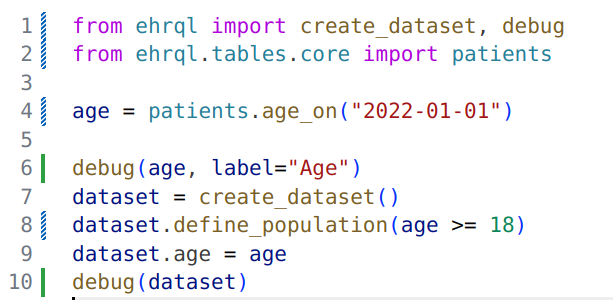
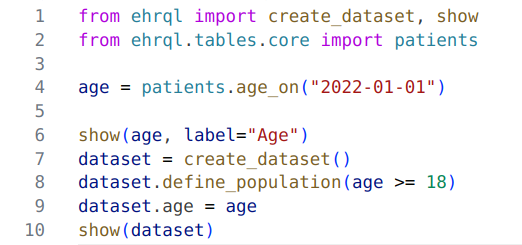
Update README and images

diff --git a/README.md b/README.md
@@ -4,7 +4,7 @@ NOTE: This extension is currently under development and is subject to change wit
 
 This is a VSCode extension for working with the [OpenSAFELY](www.opensafely.org) tools.
 
-Currently, it supports debugging [ehrQL](https://docs.opensafely.org/ehrql) variable, tables and
+Currently, it supports showing [ehrQL](https://docs.opensafely.org/ehrql) variables, tables and
 datasets produced from ehrQL dataset definition files, using a set of dummy data tables.
 
 Note that this extension can only be run with dummy data, as a local debugging tool.
@@ -12,29 +12,27 @@ Note that this extension can only be run with dummy data, as a local debugging t
 
 ## Features
 
-Debug ehrQL variables and datasets within a dataset definition.
+Show ehrQL variables and datasets within a dataset definition.
 
 1. Open a folder that contains a dataset definition file in VS Code (the file does not
   need to be at the root of the folder). Typically this will be an openSAFELY study repository.
 
-2. Open the dataset definition file in the VS Code editor and import ehrQL debug features:
+2. Open the dataset definition file in the VS Code editor and import ehrQL `show` features:
   ```
-  from ehrql import debug
+  from ehrql import show
   ```
 
 3. Show the contents of a variable:
   ```
-  debug(<varible>)
+  show(<variable>)
   ```
 
-4. Click on the "Debug ehrQL" menu bar button, or Ctrl+Shift+P and select the "ehrQL: Debug dataset"
-command. Hovering over the menu bar button will display a tooltip showing the location of the
-dummy data tables that will be used by the ehrQL debugger.
-
-![Debug ehrQL menu bar button](media/images/menu_bar_button.png)
+4. Click on the Play button, or Ctrl+Shift+P and select the "OpenSAFELY: Debug ehrQL dataset"
+command. 
+![Debug ehrQL play button](media/images/play_button.png)
 
 The following dataset definition filters patients to only those over 18, and shows the
-`age` variable (with an optional label), and the final dataset output. 
+`age` variable and the corresponding date of birth value from the `patients` table (with an optional label), and the final dataset output. 
 
 ![dataset definition](media/images/dataset_definition.png)
 
